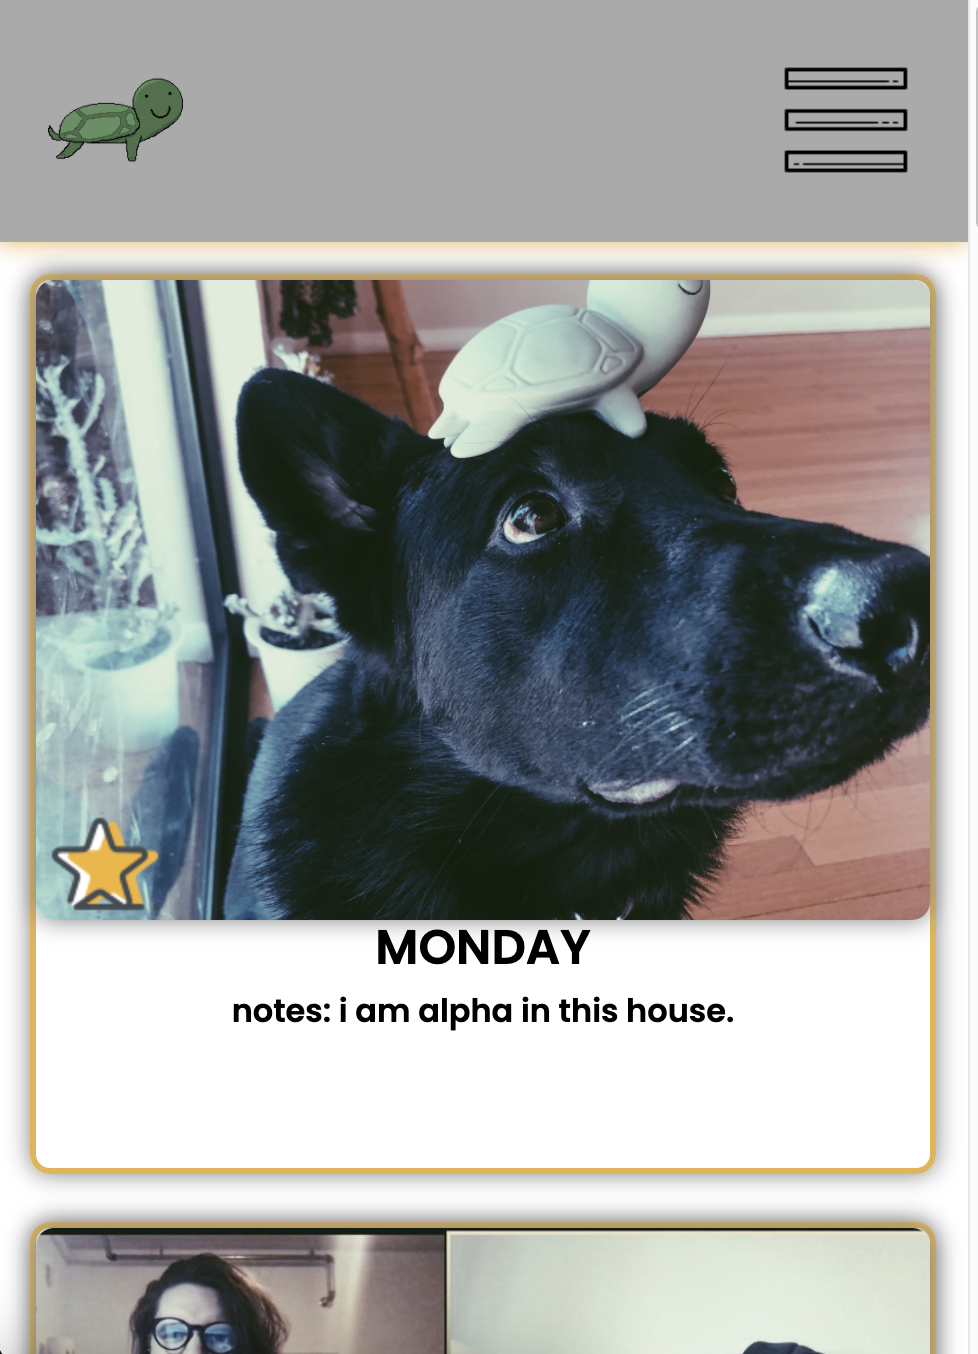
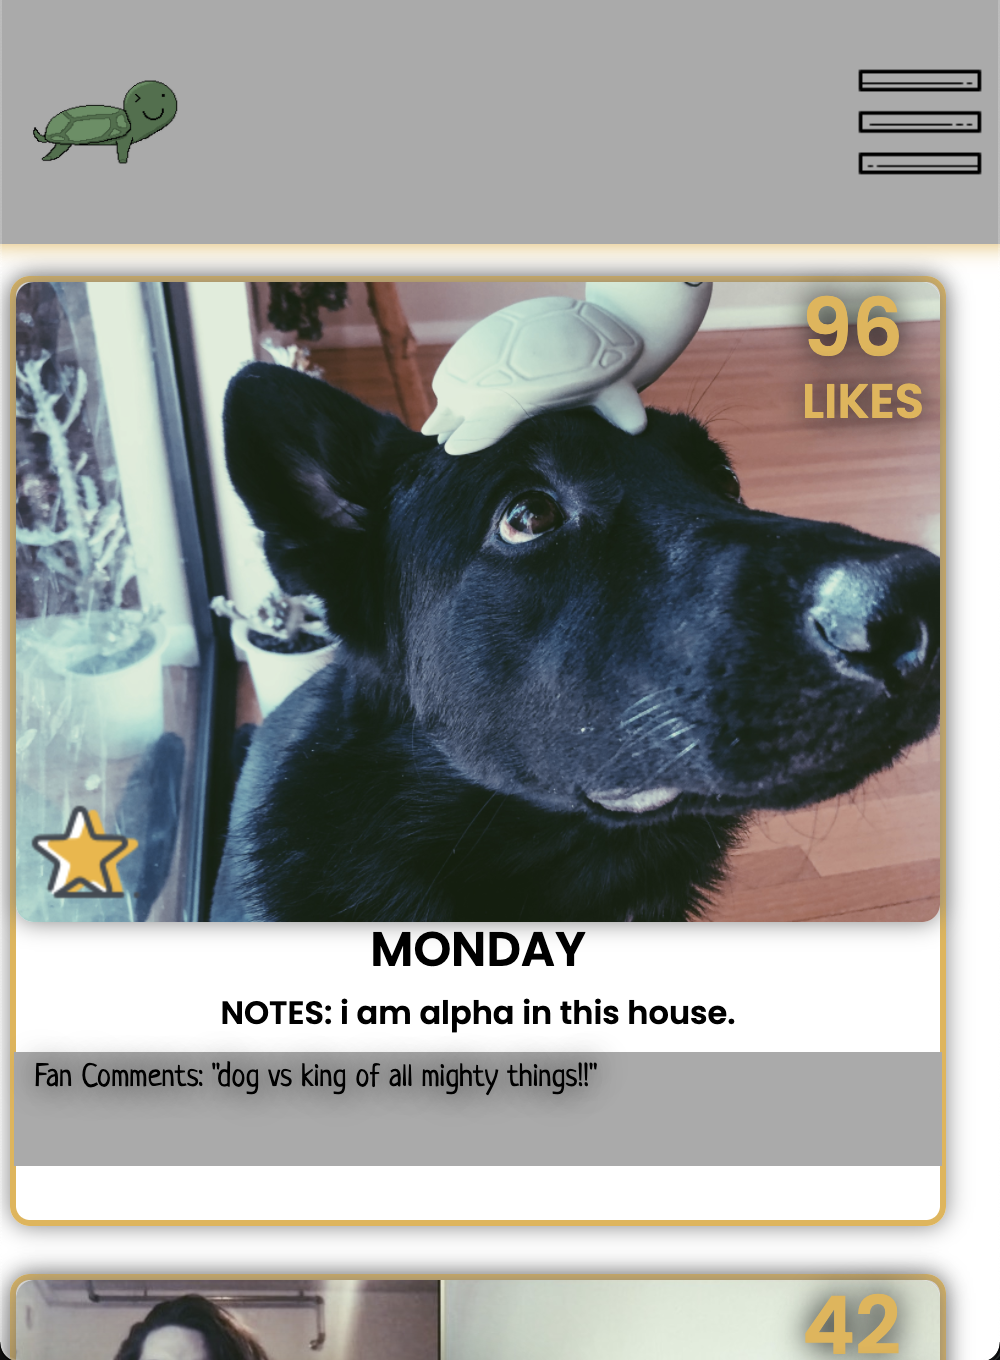
Add comment section and button hover

diff --git a/index.html b/index.html
@@ -4,6 +4,8 @@
     <link rel="stylesheet" href="node_modules/normalize.css/normalize.css">
     <link rel="stylesheet" type="text/css" href="src/styles.css"/>
     <meta name="viewport" content="width=device-width, initial-scale=1">
+    <link rel="preconnect" href="https://fonts.gstatic.com">
+    <link href="https://fonts.googleapis.com/css2?family=Neucha&display=swap" rel="stylesheet">
     <link href="https://fonts.googleapis.com/css2?family=Poppins:wght@600&display=swap" rel="stylesheet">
     <link rel="stylesheet" href="https://use.fontawesome.com/releases/v5.12.1/css/all.css" crossorigin="anonymous">
     <meta charset="UTF-8">
@@ -34,6 +36,9 @@
         <p>
           NOTES: i am alpha in this house.
         </p>
+        <div class="comments">
+          Fan Comments: "dog vs king of all mighty things!!"
+        </div>
       </section>
       <section class="grow">
         <img class="photos" src="data/slc2.jpg"/>
@@ -46,6 +51,9 @@
         <p>
           NOTES: very important SLC meeting.
         </p>
+        <div class="comments">
+          Fan Comments: "think they are planning his Mars trip?"
+        </div>
       </section>
       <section class="wed">
         <img class="photos" src="data/cooking.jpg"/>
@@ -58,6 +66,9 @@
         <p>
           NOTES: back on that diet ya know.
         </p>
+        <div class="comments">
+          Fan Comments: "drop the skincare routine too"
+        </div>
       </section>
       <section class="thur">
         <img class="photos" src="data/uno.jpg"/>
@@ -70,6 +81,9 @@
         <p>
           NOTES: she didn't stand a chance.
         </p>
+        <div class="comments">
+          Fan Comments: "this gives me meme of the girl standing in front of the house on fire vibes"
+        </div>
       </section>
       <section class="fri">
         <img class="photos" src="data/slackline.jpg"/>
@@ -82,6 +96,9 @@
         <p>
           NOTES: studies have shown slacklining makes thicc bootay.
         </p>
+        <div class="comments">
+          Fan Comments: "OMG COLESLAW GIVE ME A SHOUTOUT!!"
+        </div>
       </section>
       <section class="sat">
         <img class="photos" src="data/swimming.jpg"/>
@@ -94,6 +111,9 @@
         <p>
           NOTES: AZ got that year round swimming.
         </p>
+        <div class="comments">
+          Fan Comments: "friendly lochness monster"
+        </div>
       </section>
       <section class="sun">
         <img class="photos" src="data/sleeping.jpg"/>
@@ -106,6 +126,9 @@
         <p>
           NOTES: naps - because dealing with cohort 2011 is taxing.
         </p>
+        <div class="comments">
+          Fan Comments: "He looks like he sleeps on a Tuft&Needle"
+        </div>
       </section>
       <section class="bonus">
         <img class="photos" src="data/skiing.jpg"/>
@@ -118,6 +141,9 @@
         <p>
           NOTES: that time i skied in CO. (peep the helmet).
         </p>
+        <div class="comments">
+          Fan Comments: "I swear he's the world's most traveled bath toy"
+        </div>
       </section>
     </main>
     <script type="text/javascript" src="src/main.js"></script>

diff --git a/src/styles.css b/src/styles.css
@@ -5,6 +5,10 @@
 }
 
 .nav-bar {
+  position: sticky;
+  z-index: 1;
+  top: 0;
+  width: 100%;
   padding: 1em;
   background-color: #aaaaaa;
   height: 90px;
@@ -16,6 +20,11 @@
 .title {
   padding-top: 3%;
   font-size: 2em;
+}
+
+.c-gif {
+  width: 6em;
+  height: auto;
 }
 
 .nav-buttons, .logo, button {
@@ -53,7 +62,7 @@ main {
   margin: 1em;
   display: grid;
   grid-template-columns: repeat(4, 1fr);
-  grid-template-rows: repeat(4, 450px);
+  grid-template-rows: repeat(4, 475px);
   grid-gap: 1.5em;
 }
 
@@ -77,7 +86,7 @@ section {
 
  .rating {
   position: absolute;
-  bottom: 8em;
+  bottom: 10em;
   left: 0;
 }
 
@@ -98,6 +107,15 @@ p {
   padding: 10px;
 }
 
+.comments {
+  width: 94%;
+  padding: 5px 10px;
+  background-color: #aaaaaa;
+  height: 10%;
+  text-shadow: 0 0 1em black;
+  font-family: 'Neucha', cursive;
+}
+
 @media screen and (max-width: 900px) {
 
 /* TABLET */
@@ -115,7 +133,7 @@ p {
 
   main {
     grid-template-columns: repeat(2, 1fr);
-    grid-template-rows: repeat(6, 450px);
+    grid-template-rows: repeat(6, 475px);
   }
 }
 
@@ -124,7 +142,7 @@ p {
 
   main {
     grid-template-columns: repeat(1, 1fr);
-    grid-template-rows: repeat(8, 450px);
+    grid-template-rows: repeat(8, 475px);
   }
 
   .nav-bar {
@@ -137,5 +155,9 @@ p {
 
   .hammy {
     display: flex;
+  }
+
+  .comments {
+    width: 96%;
   }
 }
